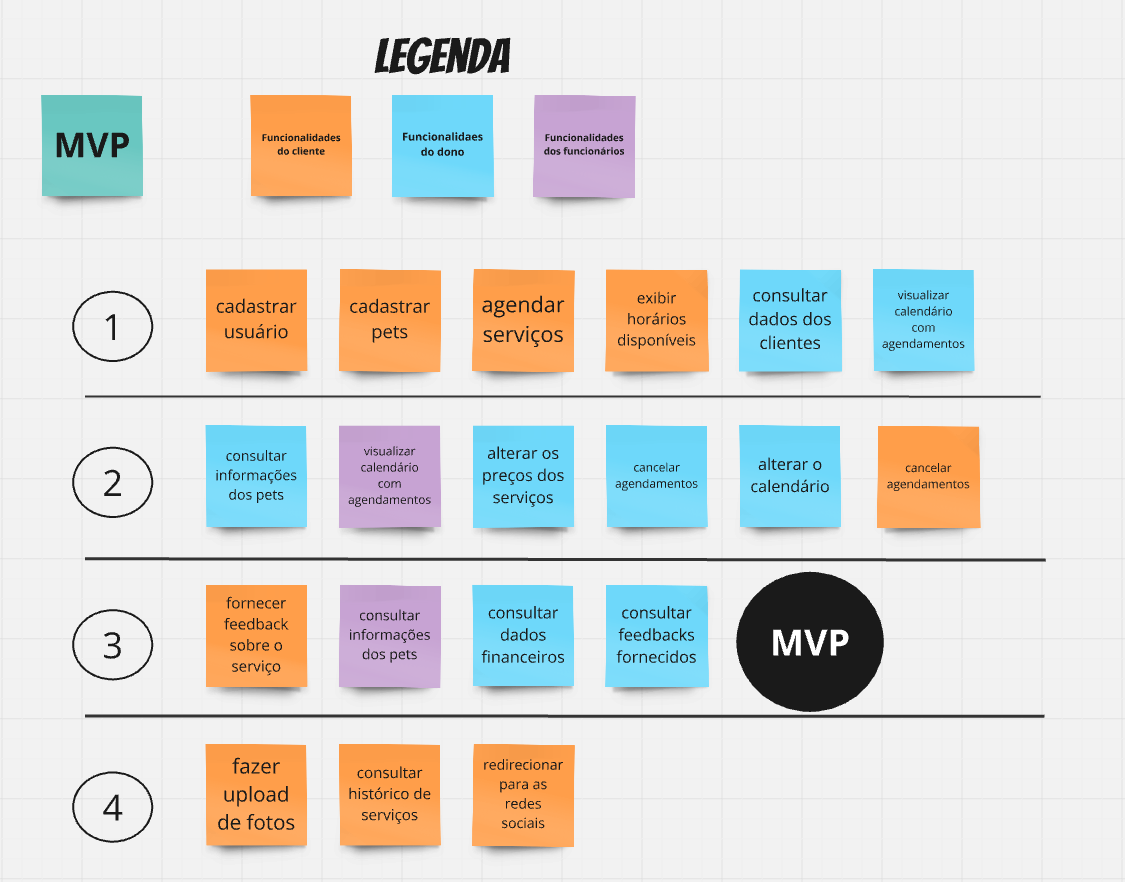
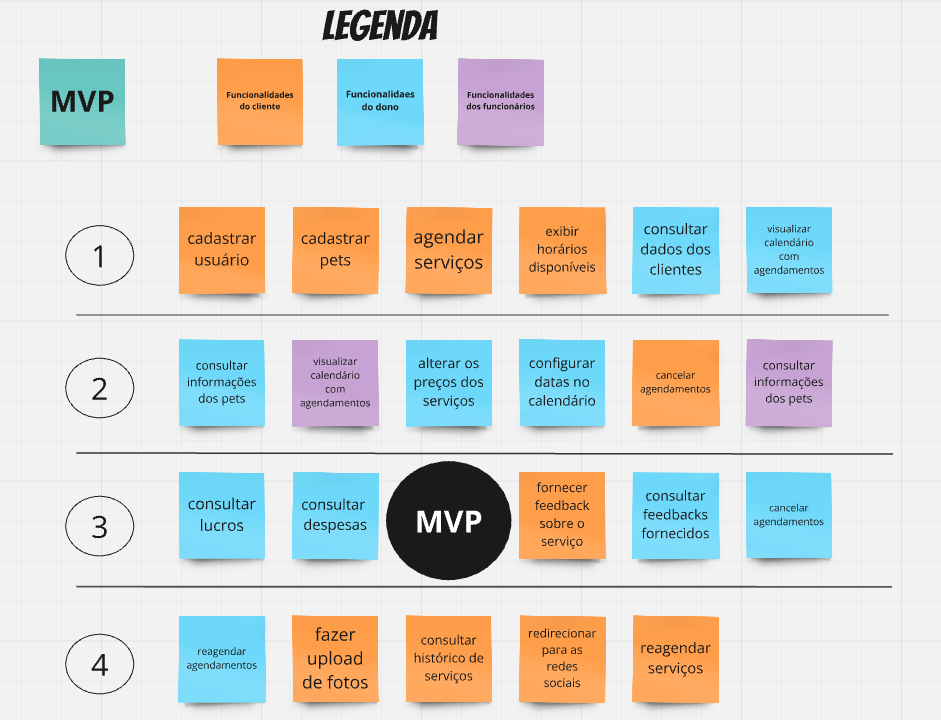
docs: mudando o mvp

diff --git a/docs/VisãoProduto/Backlog.md b/docs/VisãoProduto/Backlog.md
@@ -77,20 +77,20 @@ A tabela a seguir apresenta a classificação de cada item do backlog, proporcio
 | **US03** |Agendar Serviço  | Must have      |
 | **US04** |Exibir Horários Disponíveis  | Must have      |
 | **US05** |Cancelar agendamentos  | Should have    |
-| **US06** |Reagendar agendamentos  | Should have    |
+| **US06** |Reagendar agendamentos  | Could have    |
 | **US07** |Consultar Histórico de Serviços  | Could have      |
 | **US08** |Redirecionar para as Redes Sociais  | Could have      |
 | **US09** |Fazer Upload de Fotos  | Could have      |
-| **US10** |Fornecer Feedback sobre o Serviço  | Should have    |
-| **US11** |Consultar os Feedbacks Forncecidos  | Should have     |
+| **US10** |Fornecer Feedback sobre o Serviço  | Could have    |
+| **US11** |Consultar os Feedbacks Forncecidos  | Could have     |
 | **US12** |Consultar Dados dos Clientes  | Must have    |
 | **US13** |Consultar Informações dos Pets  | Must have    |
 | **US14** |Consultar Informações dos Pets por Parte dos Funcionários  | Should have     |
 | **US15** |Alterar os Preços dos Serviços  | Should have    |
 | **US16** |Vizualizar Calendário com Agendamentos  | Must have     |
 | **US17** |Configurar Datas no Calendário  | Should have     |
-| **US18** |Reagendar Agendamentos no Calendário  | Should have     |
-| **US19** |Cancelar Agendamentos  | Should have     |
+| **US18** |Reagendar Agendamentos por Parte do Dono | Could have     |
+| **US19** |Cancelar Agendamentos por Parte do Dono | Could have     |
 | **US20** |Vizualizar Calendário com Agendamentos do Dia por Parte dos Funcionários  | Must have     |
 | **US21** |Consultar Lucros  | Should have     |
 | **US22** |Consultar Despesas  | Should have     |
@@ -116,47 +116,37 @@ As funcionalidades escolhidas para o MVP são:
 
 8. **Visualizar Calendário com Agendamentos do Dia por Parte dos Funcionários**
 
-9. **Alterar os Preços dos Serviços**
+9. **Alterar os Preços dos Serviços** 
 
-10. **Cancelar Agendamentos por Parte do Dono**  
+10. **Configurar Datas no Calendário**
 
-11. **Reagendar Agendamentos por Parte do Dono**  
+11. **Cancelar Agendamentos por Parte do Cliente**  
 
-12. **Configurar Datas no Calendário**
+12. **Consultar Informações dos Pets por Parte dos Funcionários**
 
-13. **Reagendar Agendamentos no Calendário**
+13. **Consultar Lucros**
 
-14. **Cancelar Agendamentos por Parte do Cliente**  
-
-15. **Fornecer Feedback sobre o Serviço**
-
-16. **Consultar Informações dos Pets por Parte dos Funcionários**
-
-17. **Consultar Lucros**
-
-18. **Consultar Despesas**
-
-19. **Consultar Feedbacks Fornecidos**
+14. **Consultar Despesas**
 
 Os requisitos não funcionais escolhidos para o MVP foram:
 
-20. **Interface Institiva**
+15. **Interface Institiva**
 
-21. **Feedback Visual**
+16. **Feedback Visual**
 
-22. **Disponibilidade**
+17. **Disponibilidade**
 
-23. **Recuperação de Falhas**
+18. **Recuperação de Falhas**
 
-24. **Processamento**
+19. **Processamento**
 
-25. **Eficiência**
+20. **Eficiência**
 
-26. **Compatibilidade**
+21. **Compatibilidade**
 
-27. **Linguagem de Programação**
+22. **Linguagem de Programação**
 
-28. **Banco de Dados**
+23. **Banco de Dados**
 
 <center>
 ![mvp](../assets/imgs/mvp.png)
